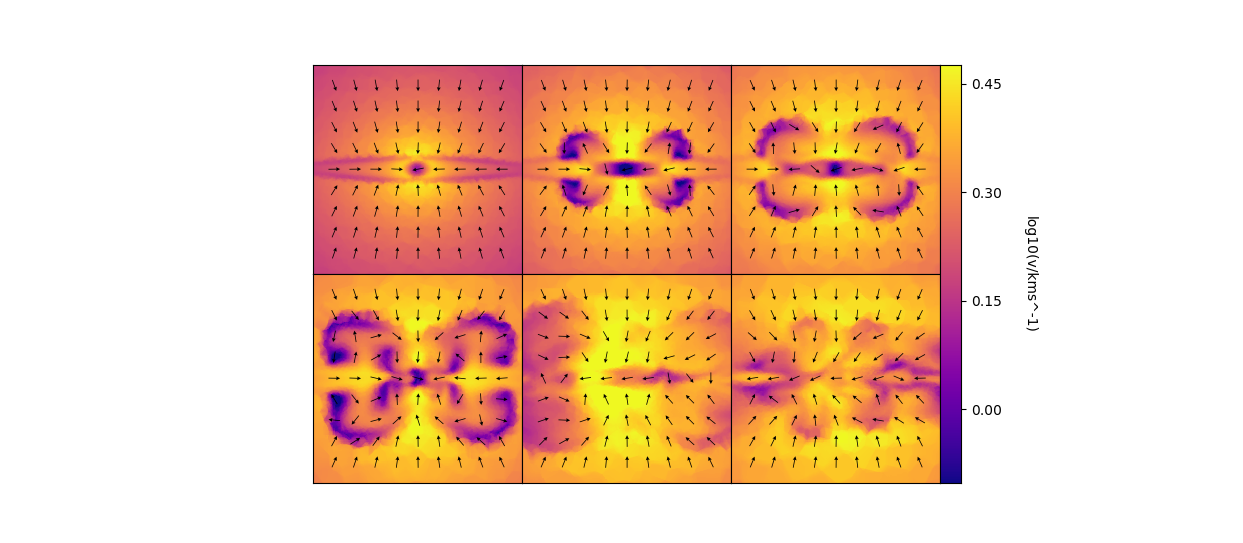
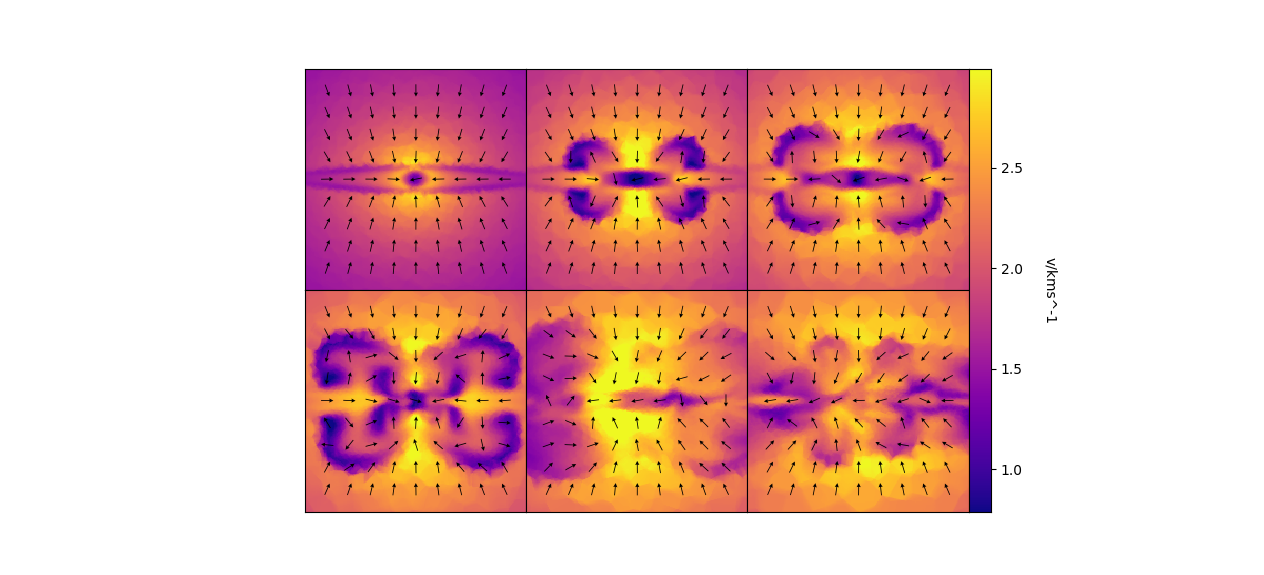
.

diff --git a/lewis_arepo_code/analyse.py b/lewis_arepo_code/analyse.py
@@ -534,7 +534,8 @@ def cube_plot(dirname,names,weight_type,pixels):
 			vx,vy,vz=read_3cube(dirname+names[5-i])
 			bratio=np.sqrt(vx**2+vy**2+vz**2)*code_units.v_cu/1e5
 			bratio=np.sum(bratio[:,mid-width_rho:mid+width_rho,:],1)/(2*width_rho)
-			tag='log10(v/kms^-1)'
+			bratio=10**(bratio)
+			tag='v/kms^-1'
 		if i==0:	
 			im=grid[5-i].imshow(np.log10(np.rot90(bratio)),cmap='plasma')
 			clim=im.properties()['clim']
